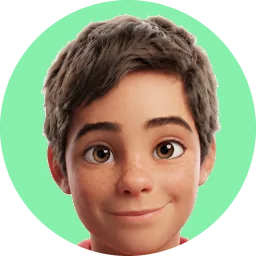
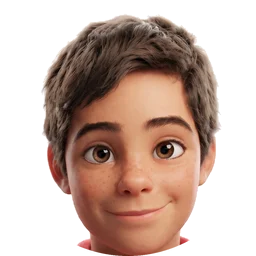
Portraits détourés : la couleur choisie apparaît derrière chaque tête
Claude-Session: https://claude.ai/code/session_01KgRZeWnVY1fHvGa5EbL9Sb

Changed region(s): [[0.0, 0.0, 1.0, 0.9688]]

diff --git a/index.html b/index.html
@@ -241,7 +241,7 @@ const col=p=>S.settings.parents[p].color;
 const kid=id=>S.children.find(c=>c.id===id);
 const kidName=id=>id==='all'||!id?'Les deux':esc(kid(id)?.name||'?');
 /* ---------- têtes (provisoires : remplaçables plus tard par une photo via person.photo) ---------- */
-const AVATARS={A:'avatars/papa.webp',B:'avatars/maman.webp',c1:'avatars/enfant1.webp',c2:'avatars/enfant2.webp'};
+const AVATARS={A:'avatars/papa.webp?v=2',B:'avatars/maman.webp?v=2',c1:'avatars/enfant1.webp?v=2',c2:'avatars/enfant2.webp?v=2'};
 function person(id){if(id==='A'||id==='B'){const p=S.settings.parents[id];return{name:p.name,color:p.color,photo:p.photo||AVATARS[id],kid:false}}const k=kid(id);return k?{name:k.name,color:k.color||'#86EFAC',photo:k.photo||AVATARS[id],kid:true}:{name:'?',color:'#888',kid:true}}
 function head(id,s=36){
   const p=person(id);

diff --git a/sw.js b/sw.js
@@ -1,7 +1,7 @@
 /* Service worker : l'app marche hors ligne et se met à jour toute seule */
-const CACHE='coparent-v1';
+const CACHE='coparent-v2';
 const SHELL=['./','index.html','manifest.webmanifest','icons/icon-192.png','icons/icon-512.png','icons/apple-touch-icon.png',
-  'avatars/papa.webp','avatars/maman.webp','avatars/enfant1.webp','avatars/enfant2.webp'];
+  'avatars/papa.webp?v=2','avatars/maman.webp?v=2','avatars/enfant1.webp?v=2','avatars/enfant2.webp?v=2'];
 self.addEventListener('install',e=>{e.waitUntil(caches.open(CACHE).then(c=>c.addAll(SHELL)).then(()=>self.skipWaiting()))});
 self.addEventListener('activate',e=>{e.waitUntil(caches.keys().then(ks=>Promise.all(ks.filter(k=>k!==CACHE).map(k=>caches.delete(k)))).then(()=>self.clients.claim()))});
 self.addEventListener('fetch',e=>{
